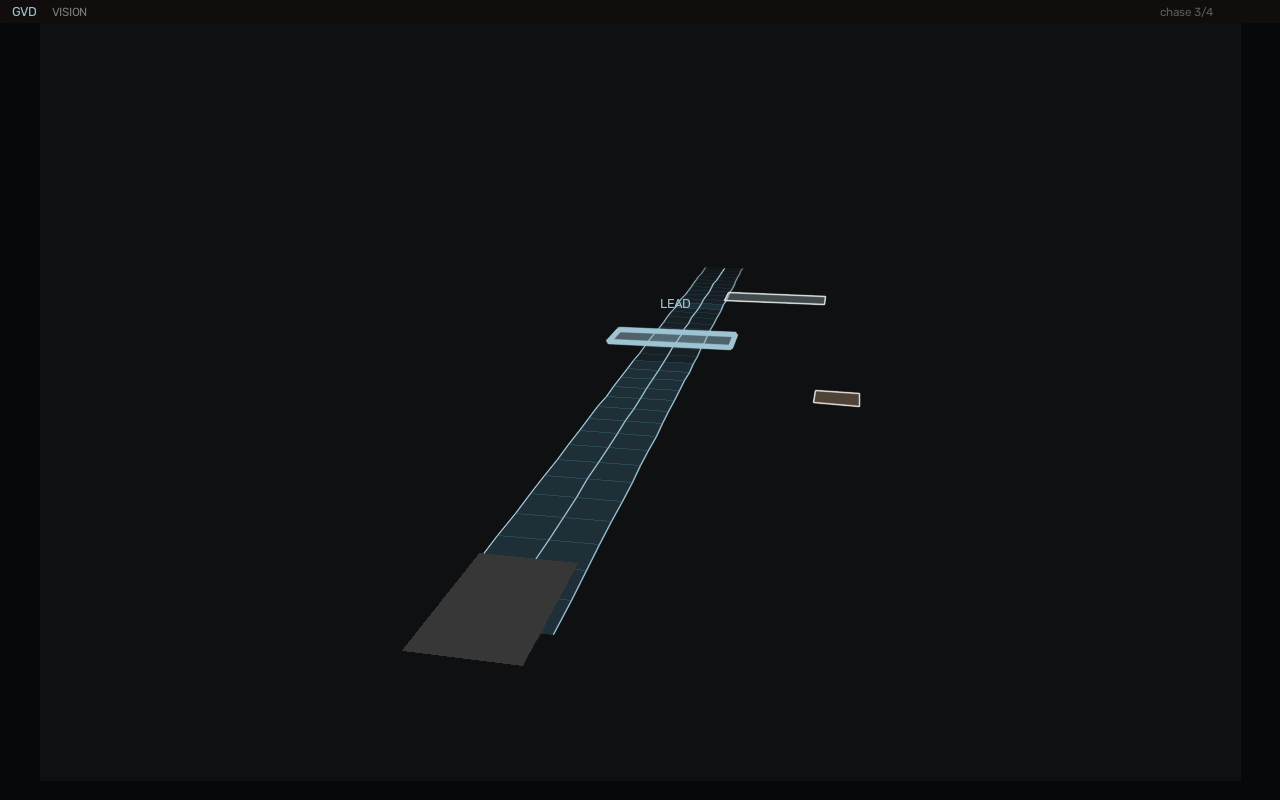
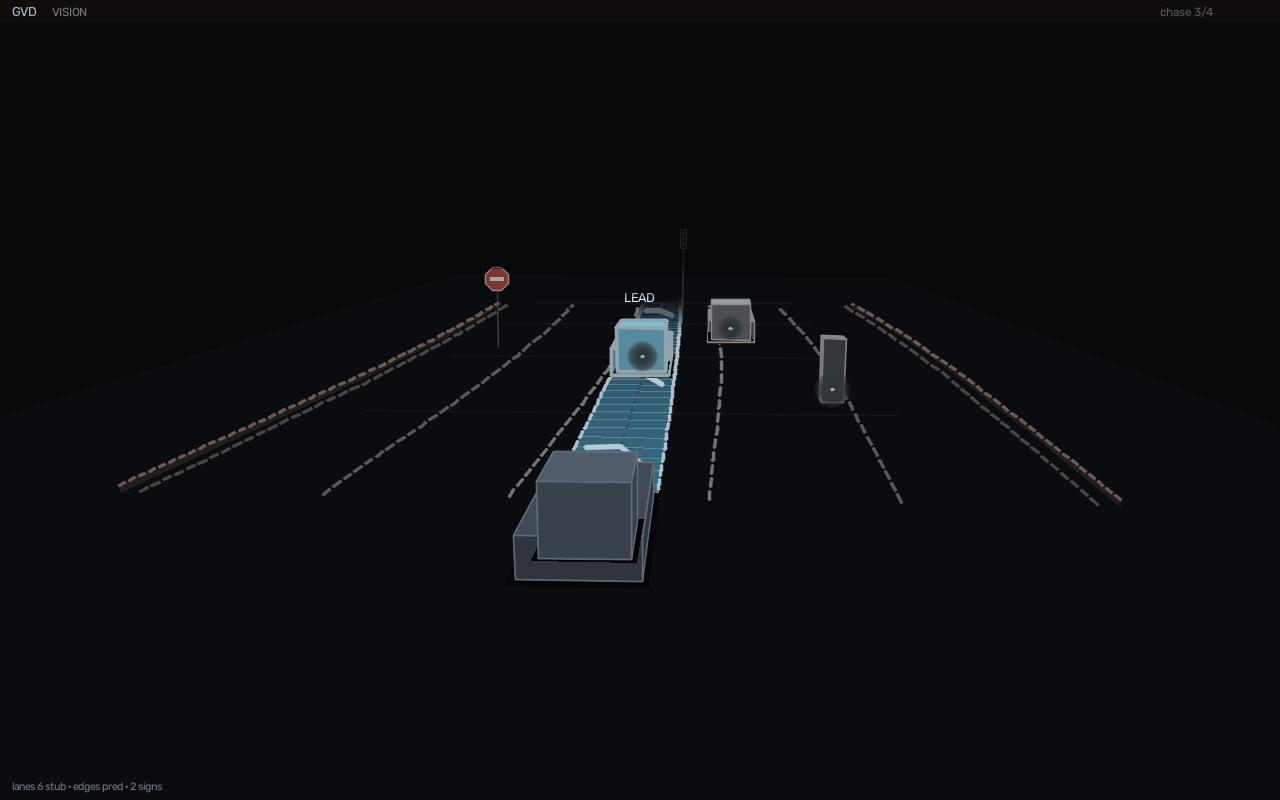
fix(viz): chase camera and contrast so the OpenCV lexicon reads
Pull the cabin camera back, keep fog off the lane fan, and restore the
authored smoke corridor/CIPV after a blank-frame perception tick so
--smoke shows ice ribbon, multi-lane lines, kerbs, signs, and LEAD.

diff --git a/python/viz/stage.py b/python/viz/stage.py
@@ -73,15 +73,15 @@ class Cam:
     def eye(self) -> tuple[float, float, float]:
         if self.top_down:
             return (0.0, -8.0, 40.0)
-        return (4.5, -11.0, 7.5)
+        # Chase 3/4, pulled back so ego does not eat the frame and the lane fan reads.
+        return (1.6, -16.5, 5.4)
 
     def project(self, x: float, y: float, z: float = 0.0) -> tuple[int, int]:
         if self.top_down:
             cx, cy = STAGE_W // 2, STAGE_H - 90
             return int(cx + x * self.ppm), int(cy - y * self.ppm)
-        # Chase-up 3/4 bird: slightly behind/right of ego, FOV ~50, look forward-down
-        cam = np.array([4.5, -11.0, 7.5], dtype=np.float64)
-        target = np.array([0.0, 12.0, 0.0], dtype=np.float64)
+        cam = np.array(self.eye, dtype=np.float64)
+        target = np.array([0.0, 16.0, -0.8], dtype=np.float64)
         eye = np.array([x, y, z], dtype=np.float64) - cam
         forward = target - cam
         forward = forward / (np.linalg.norm(forward) + 1e-9)
@@ -94,7 +94,7 @@ class Cam:
         cz = float(np.dot(eye, forward))
         if cz < 0.6:
             cz = 0.6
-        fov = math.radians(50.0)
+        fov = math.radians(42.0)
         f = (STAGE_H * 0.5) / math.tan(fov * 0.5)
         u = STAGE_W * 0.5 + f * cx / cz
         v = STAGE_H * 0.5 - f * cy / cz
@@ -324,24 +324,22 @@ def _draw_ground(img: np.ndarray, cam: Cam) -> None:
     horizon = max(0, min(STAGE_H - 1, far_l[1]))
     overlay = img.copy()
     cv2.fillPoly(overlay, [np.array([far_l, far_r, near_r, near_l], dtype=np.int32)], (22, 18, 15))
-    cv2.addWeighted(overlay, 0.55, img, 0.45, 0, img)
-    # sink the far field into the void
-    fog = img.copy()
-    cv2.rectangle(fog, (0, max(0, horizon - 8)), (STAGE_W, min(STAGE_H, horizon + int(STAGE_H * 0.22))), VOID, -1)
-    cv2.addWeighted(fog, 0.55, img, 0.45, 0, img)
-    tick = _mix(ICE, 0.06)
+    cv2.addWeighted(overlay, 0.40, img, 0.60, 0, img)
+    tick = _mix(ICE, 0.08)
     for d in (10, 20, 30, 40):
         a, b = cam.project(-7, d, 0), cam.project(7, d, 0)
         cv2.line(img, a, b, tick, 1, cv2.LINE_AA)
 
 
 def _draw_fog(img: np.ndarray, cam: Cam) -> None:
+    """Void the sky plus a thin horizon fade — do not wipe the lane fan."""
     horizon = max(0, min(STAGE_H - 1, cam.project(0, 70, 0)[1]))
-    band = img.copy()
-    y0 = max(0, horizon - 10)
-    y1 = min(STAGE_H, horizon + int(STAGE_H * 0.28))
-    cv2.rectangle(band, (0, y0), (STAGE_W, y1), VOID, -1)
-    cv2.addWeighted(band, 0.42, img, 0.58, 0, img)
+    sky = img.copy()
+    cv2.rectangle(sky, (0, 0), (STAGE_W, max(1, horizon)), VOID, -1)
+    cv2.addWeighted(sky, 0.55, img, 0.45, 0, img)
+    fade = img.copy()
+    cv2.rectangle(fade, (0, max(0, horizon)), (STAGE_W, min(STAGE_H, horizon + 28)), VOID, -1)
+    cv2.addWeighted(fade, 0.22, img, 0.78, 0, img)
 
 
 def _draw_lanes(img: np.ndarray, lanes: list, cam: Cam, *, smoke: bool) -> None:
@@ -364,12 +362,15 @@ def _draw_lanes(img: np.ndarray, lanes: list, cam: Cam, *, smoke: bool) -> None:
         style = str(ln.get("style") or "unknown") if isinstance(ln, dict) else "unknown"
         dashed = mode == "dashed" or style == "dashed"
         if mode == "solid":
-            color = _mix(PAPER, 0.55 * fade)
+            color = tuple(max(90, int(c * max(0.55, fade))) for c in PAPER)
             thick = 2
         else:
-            color = _mix(PAPER, 0.24 * fade)
-            thick = 1
-        _stroke_poly(img, _proj_poly(cam, pts, 0.02), color, thick, dashed=dashed, dash=11 if mode == "solid" else 6, gap=9 if mode == "solid" else 7)
+            color = tuple(max(70, int(c * max(0.40, 0.70 * fade))) for c in (170, 166, 160))
+            thick = 2
+        _stroke_poly(
+            img, _proj_poly(cam, pts, 0.02), color, thick,
+            dashed=dashed, dash=10 if mode == "solid" else 8, gap=5,
+        )
 
 
 def _draw_edges(img: np.ndarray, edges: list, cam: Cam) -> None:
@@ -384,8 +385,8 @@ def _draw_edges(img: np.ndarray, edges: list, cam: Cam) -> None:
         quad = np.array(base + list(reversed(top)), dtype=np.int32)
         overlay = img.copy()
         cv2.fillPoly(overlay, [quad], KERB)
-        cv2.addWeighted(overlay, 0.16 if solid else 0.09, img, 1.0 - (0.16 if solid else 0.09), 0, img)
-        _stroke_poly(img, top, _mix(KERB, 0.70 if solid else 0.42), 2, dashed=not solid, dash=6, gap=5)
+        cv2.addWeighted(overlay, 0.22 if solid else 0.14, img, 1.0 - (0.22 if solid else 0.14), 0, img)
+        _stroke_poly(img, top, _mix(KERB, 0.85 if solid else 0.62, (22, 20, 18)), 2, dashed=not solid, dash=6, gap=5)
 
 
 def _draw_signs(img: np.ndarray, signs: list, cam: Cam) -> None:
@@ -472,7 +473,7 @@ def _draw_chevrons(
             ],
             dtype=np.int32,
         )
-        cv2.polylines(img, [pts], False, _mix(ICE_HI, 0.6 * (fade[i] if i < len(fade) else 0.5)), 2, cv2.LINE_AA)
+        cv2.polylines(img, [pts], False, _mix(ICE_HI, 0.85 * (fade[i] if i < len(fade) else 0.5)), 3, cv2.LINE_AA)
 
 
 def _draw_stop_bar(
@@ -538,21 +539,28 @@ def _draw_filled_corridor(
         norm = math.hypot(tx, ty) + 1e-6
         px, py = (ty / norm) * half_w, (-tx / norm) * half_w
         fade = 1.0 if d <= PATH_FADE_START_M else max(0.0, 1.0 - (d - PATH_FADE_START_M) / (PATH_FADE_END_M - PATH_FADE_START_M))
-        left.append(cam.project(x - px, y - py, 0.03))
-        right.append(cam.project(x + px, y + py, 0.03))
-        center.append(cam.project(x, y, 0.03))
+        cx, cy = cam.project(x, y, 0.03)
+        lx, ly = cam.project(x - px, y - py, 0.03)
+        rx, ry = cam.project(x + px, y + py, 0.03)
+        if abs(rx - lx) < 3 and abs(ry - ly) < 3:
+            half_px = max(3.0, half_w * cam.scale_at(y))
+            lx, ly = int(cx - half_px), cy
+            rx, ry = int(cx + half_px), cy
+        left.append((lx, ly))
+        right.append((rx, ry))
+        center.append((cx, cy))
         alphas.append(fade)
 
     nseg = len(left) - 1
     for i in range(nseg):
         near = 1.0 - i / max(1, nseg)
-        a = intent * (0.30 + 0.42 * near) * max(0.2, conf) * (0.55 * alphas[i] + 0.45 * alphas[i + 1])
+        a = intent * (0.38 + 0.50 * near) * max(0.25, conf) * (0.55 * alphas[i] + 0.45 * alphas[i + 1])
         if a < 0.02:
             continue
         quad = np.array([left[i], left[i + 1], right[i + 1], right[i]], dtype=np.int32)
         overlay = img.copy()
         cv2.fillPoly(overlay, [quad], CORRIDOR)
-        cv2.addWeighted(overlay, min(0.55, a), img, 1 - min(0.55, a), 0, img)
+        cv2.addWeighted(overlay, min(0.62, a), img, 1 - min(0.62, a), 0, img)
 
     for i in range(nseg):
         edge = _mix(ICE_HI, 0.8 * alphas[i])
@@ -634,11 +642,13 @@ def _draw_box(
             continue
         fc["d"] = vx * vx + vy * vy + vz * vz
         vis.append(fc)
-    vis.sort(key=lambda f: -f["d"])
-    for fc in vis:
-        fill = _mix(_shade(color, fc["k"]), alpha)
-        cv2.fillPoly(img, [np.array(fc["p"], dtype=np.int32)], fill)
-        cv2.polylines(img, [np.array(fc["p"], dtype=np.int32)], True, _mix(stroke, min(1.0, alpha * 0.55)), stroke_w, cv2.LINE_AA)
+        vis.sort(key=lambda f: -f["d"])
+        for fc in vis:
+            # Lead / in-path boxes stay icy; do not crush them with the far-face shade.
+            k = fc["k"] if alpha < 0.8 else max(0.72, fc["k"])
+            fill = _mix(_shade(color, k), alpha)
+            cv2.fillPoly(img, [np.array(fc["p"], dtype=np.int32)], fill)
+            cv2.polylines(img, [np.array(fc["p"], dtype=np.int32)], True, _mix(stroke, min(1.0, alpha * 0.8)), stroke_w, cv2.LINE_AA)
 
 
 def _track_dims(cls: str) -> tuple[float, float, float]:
@@ -788,7 +798,7 @@ def render_stage(
     if show_ghosts:
         _draw_tracks(img, tracks, cam, path=path, path_width=path_width, state=state, cipv_id=cipv_id)
         n_forecast = 0
-        if not drop_heavy and not clean:
+        if not drop_heavy:
             for tr in tracks:
                 if n_forecast >= MAX_FORECAST:
                     break
@@ -854,7 +864,8 @@ def smoke(ui: VizUI | None = None, use_perception: bool = False) -> "Path":
         missing_state_keys=["live cameras", "real planner path", "occupancy grid"],
     )
     st["ego"] = {"speed_mps": 14.0, "steer_deg": 0.0, "throttle": 0.1, "brake": 0.0, "yaw_rate": 0.0}
-    st["path_ego"] = [{"x": 0.12 * math.sin(i / 14), "y": float(i), "z": 0.0} for i in range(0, 45)]
+    authored_path = [{"x": 0.12 * math.sin(i / 14), "y": float(i), "z": 0.0} for i in range(0, 45)]
+    st["path_ego"] = authored_path
     st["viz_smoke"] = True
     if use_perception:
         from python.perception.pipeline import ModularPerception
@@ -867,16 +878,39 @@ def smoke(ui: VizUI | None = None, use_perception: bool = False) -> "Path":
         st["objects_n"] = pout.objects_n
         st["lane_conf"] = pout.lane_conf
         st["lanes_bev"] = pout.lanes_bev
-        st["path_ego"] = pout.path_ego
-        st["path_width"] = pout.path_width
-        st["path_conf"] = pout.path_conf
-        st["path_debug_preview"] = pout.path_debug_preview
-        st["planner"] = pout.planner
         st["infer_ms"] = pout.infer_ms
         st["detector"] = pout.detector_name
         st["signs"] = pout.signs
         miss = [m for m in (st.get("missing_state_keys") or []) if m not in ("tracks", "lanes_bev", "real path_ego from planner")]
         st["missing_state_keys"] = sorted(set(miss + pout.missing))
+        # Blank-frame Hough cannot see paint. Keep the authored corridor + slowing/CIPV
+        # so --smoke actually demonstrates the lexicon, and say so in missing keys.
+        if pout.path_debug_preview or len(pout.path_ego or []) < 8:
+            st["path_ego"] = authored_path
+            st["path_width"] = 2.0
+            st["path_conf"] = 0.9
+            st["path_debug_preview"] = True
+            st["missing_state_keys"] = sorted(set(
+                (st.get("missing_state_keys") or []) + ["live corridor (smoke keeps authored path; Hough saw no paint)"]
+            ))
+        else:
+            st["path_ego"] = pout.path_ego
+            st["path_width"] = pout.path_width
+            st["path_conf"] = pout.path_conf
+            st["path_debug_preview"] = pout.path_debug_preview
+        pl = dict(pout.planner or {})
+        if pl.get("cipv_id") is None:
+            for tr in st.get("tracks") or []:
+                if track_cls(tr) == "vehicle" and float(tr.get("y") or 0) > 5:
+                    pl["cipv_id"] = tr.get("id")
+                    break
+            st["missing_state_keys"] = sorted(set(
+                (st.get("missing_state_keys") or []) + ["live CIPV (smoke tags nearest synthetic vehicle)"]
+            ))
+        # Authored slowing so chevrons show; blank-frame plan_speed has no lead TTC.
+        pl["target_v"] = 11.0
+        st["planner"] = pl
+        st["ego"]["speed_mps"] = 14.0
     if not st.get("lanes_ext"):
         # --smoke has no camera, so the Hough fit finds nothing. Give the stage
         # something to draw, tagged kind="stub" so it can never read as a live detection.
